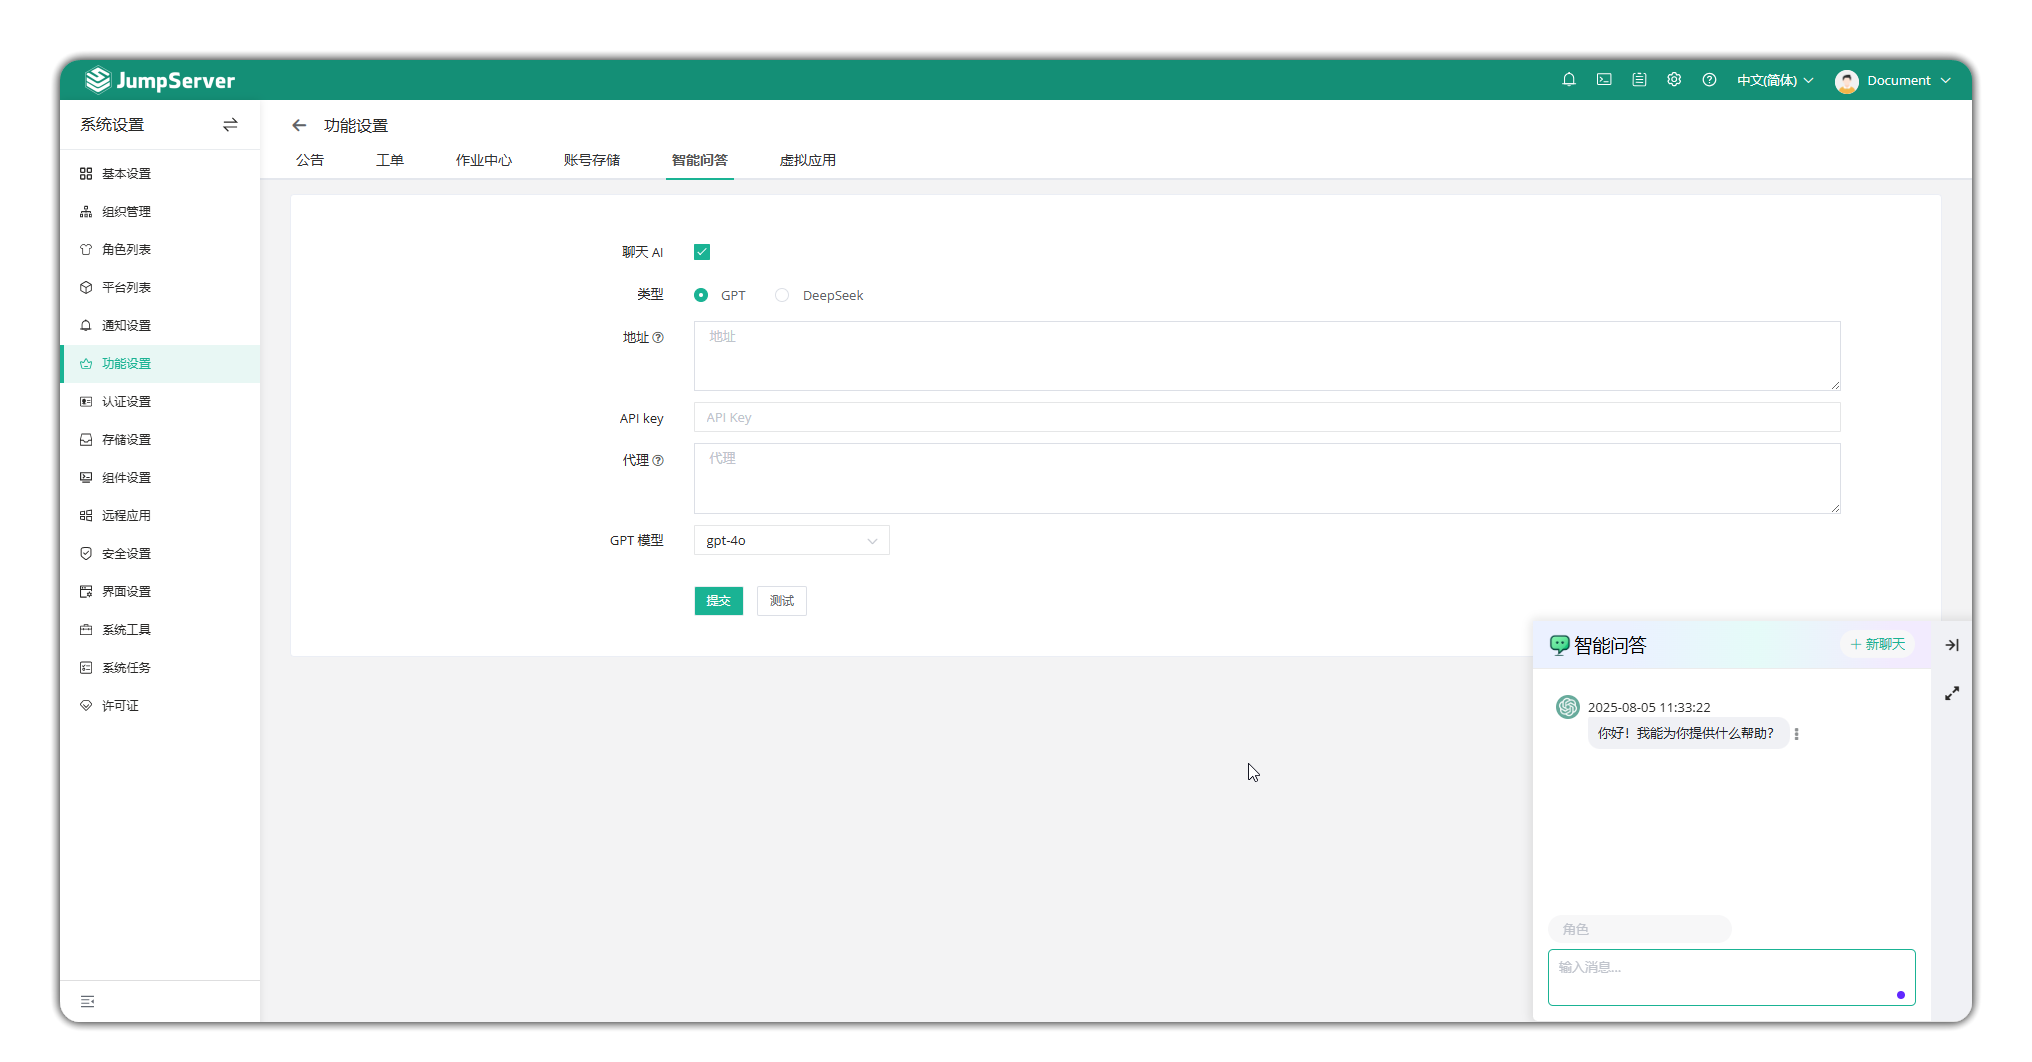
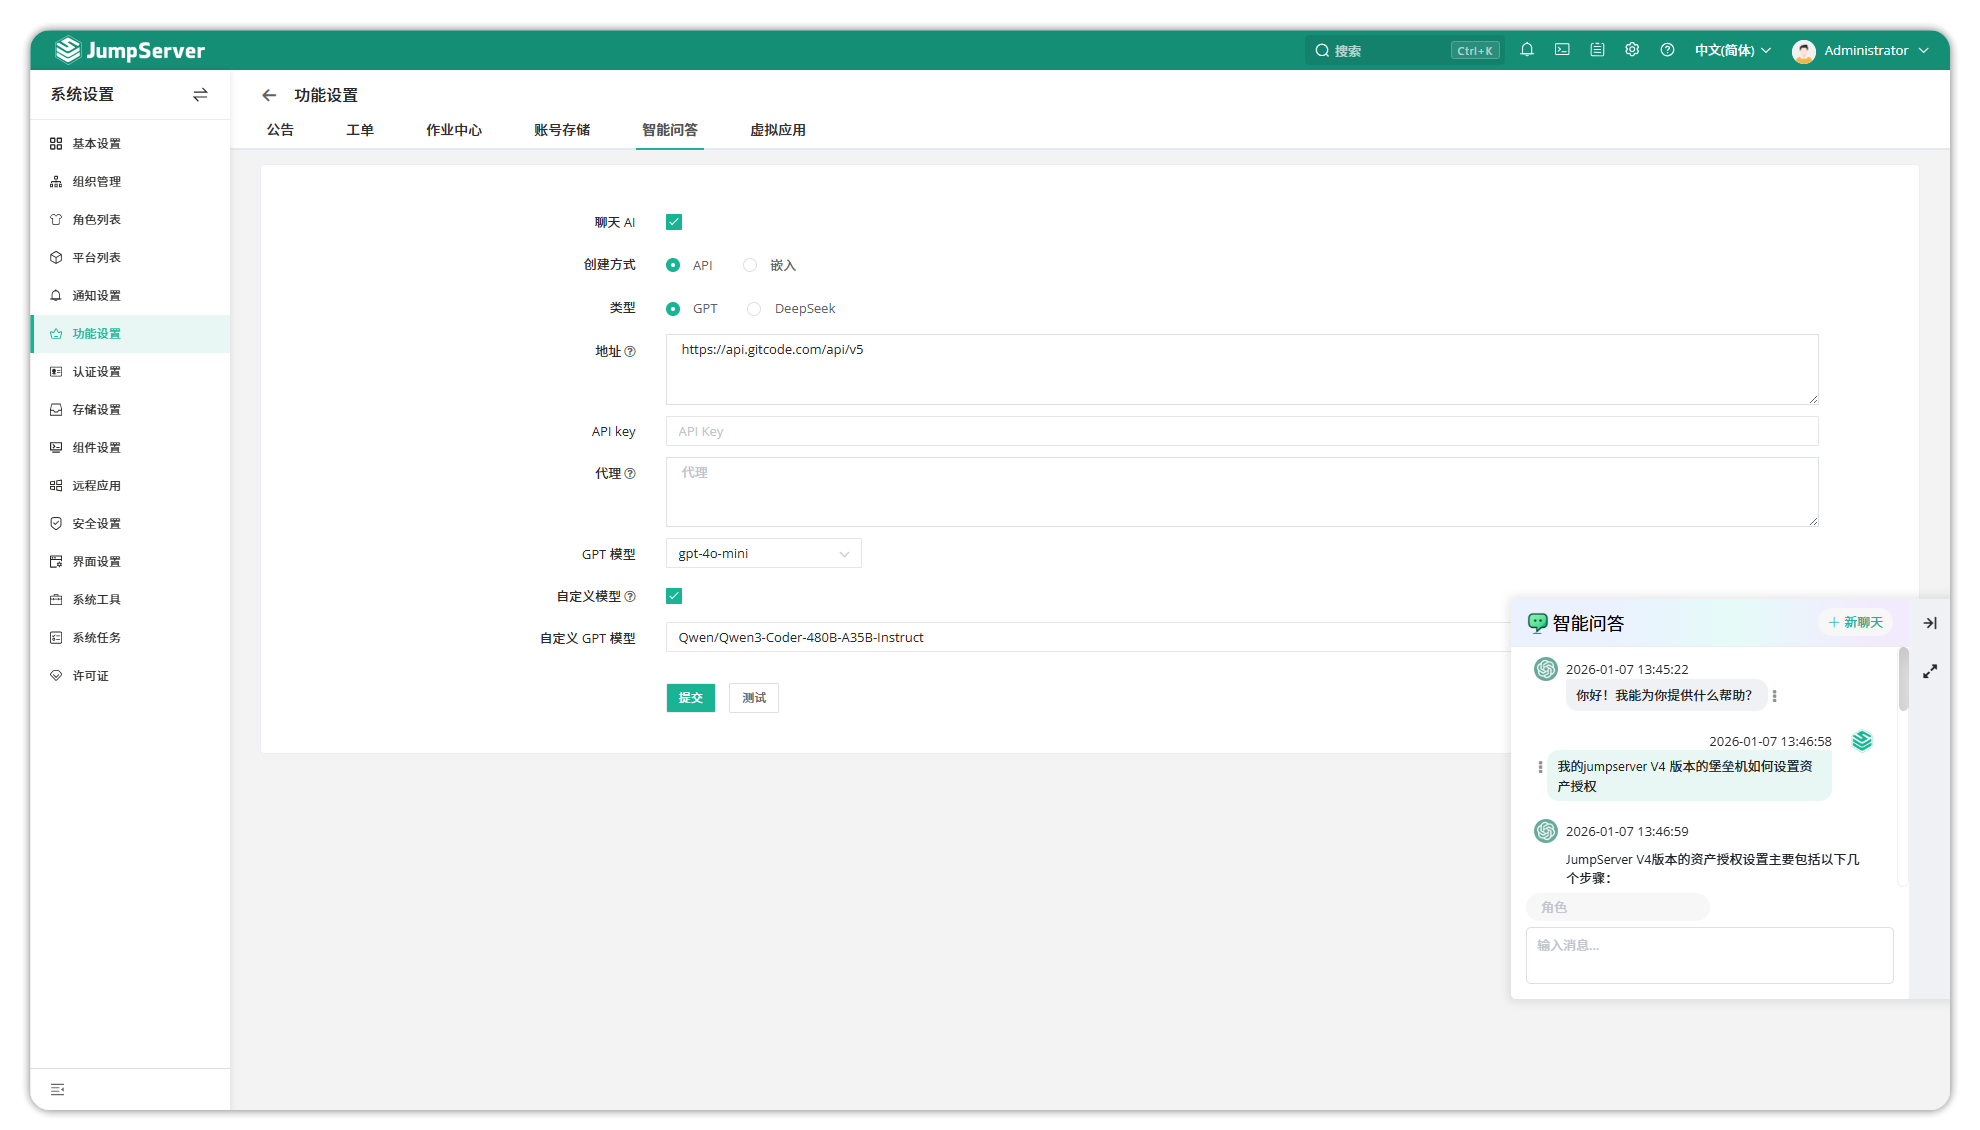
new AI chat

diff --git a/docs/manual/admin/system_settings/feature_settings.md b/docs/manual/admin/system_settings/feature_settings.md
@@ -43,8 +43,9 @@
 ## 5 智能问答
 
 !!! tip ""
-    - 点击页面上方的 **智能问答** ，即进入智能问答设置页面。
-    - 智能问答支持对接ChatGPT服务，启动ChatAI小助手功能进行智能问答。
+    - 点击页面上方的 智能问答，即可进入智能问答设置页面。
+    - 智能问答支持对接 ChatGPT、Deepseek 以及自定义模型服务（自定义模型功能需在 >= V4.10.14 版本中才可使用），开启后即可启动聊天 AI 功能进行智能问答。
+    - 填写聊天服务的基本地址、API Key，点击 **保存** ，再点击 **测试**；测试连接成功后，即可开始与智能问答小助手进行对话。
 ![V4_systemsetting_feature7](../../../img/V4_systemsetting_feature7.png)
 
 ## 6 虚拟应用
